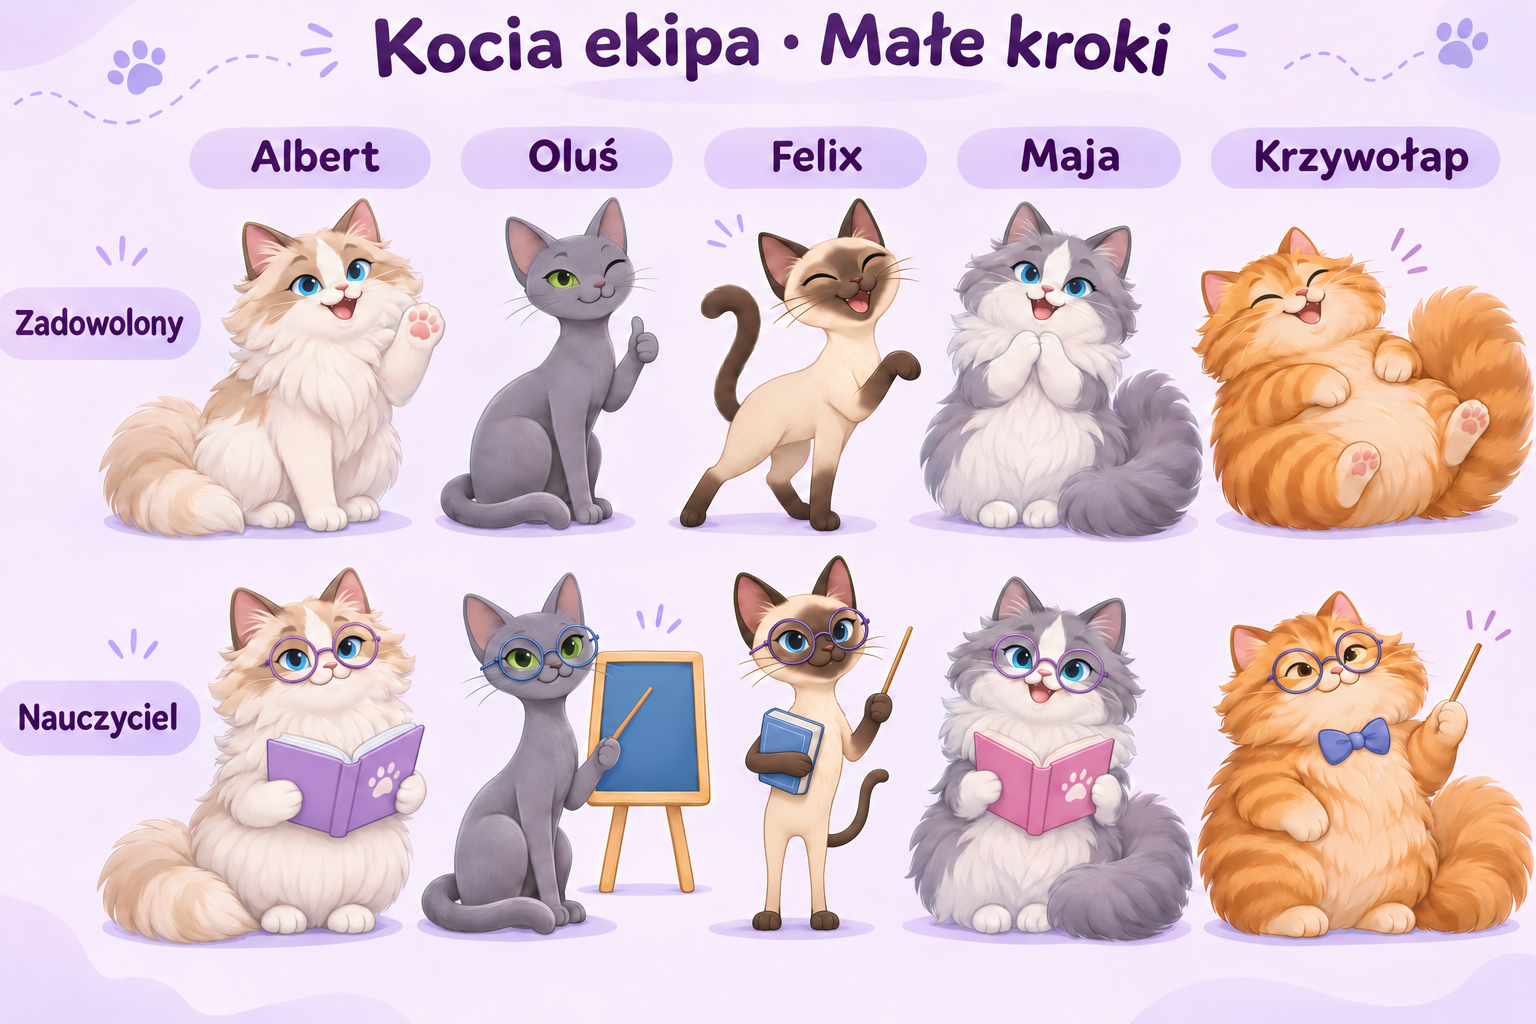
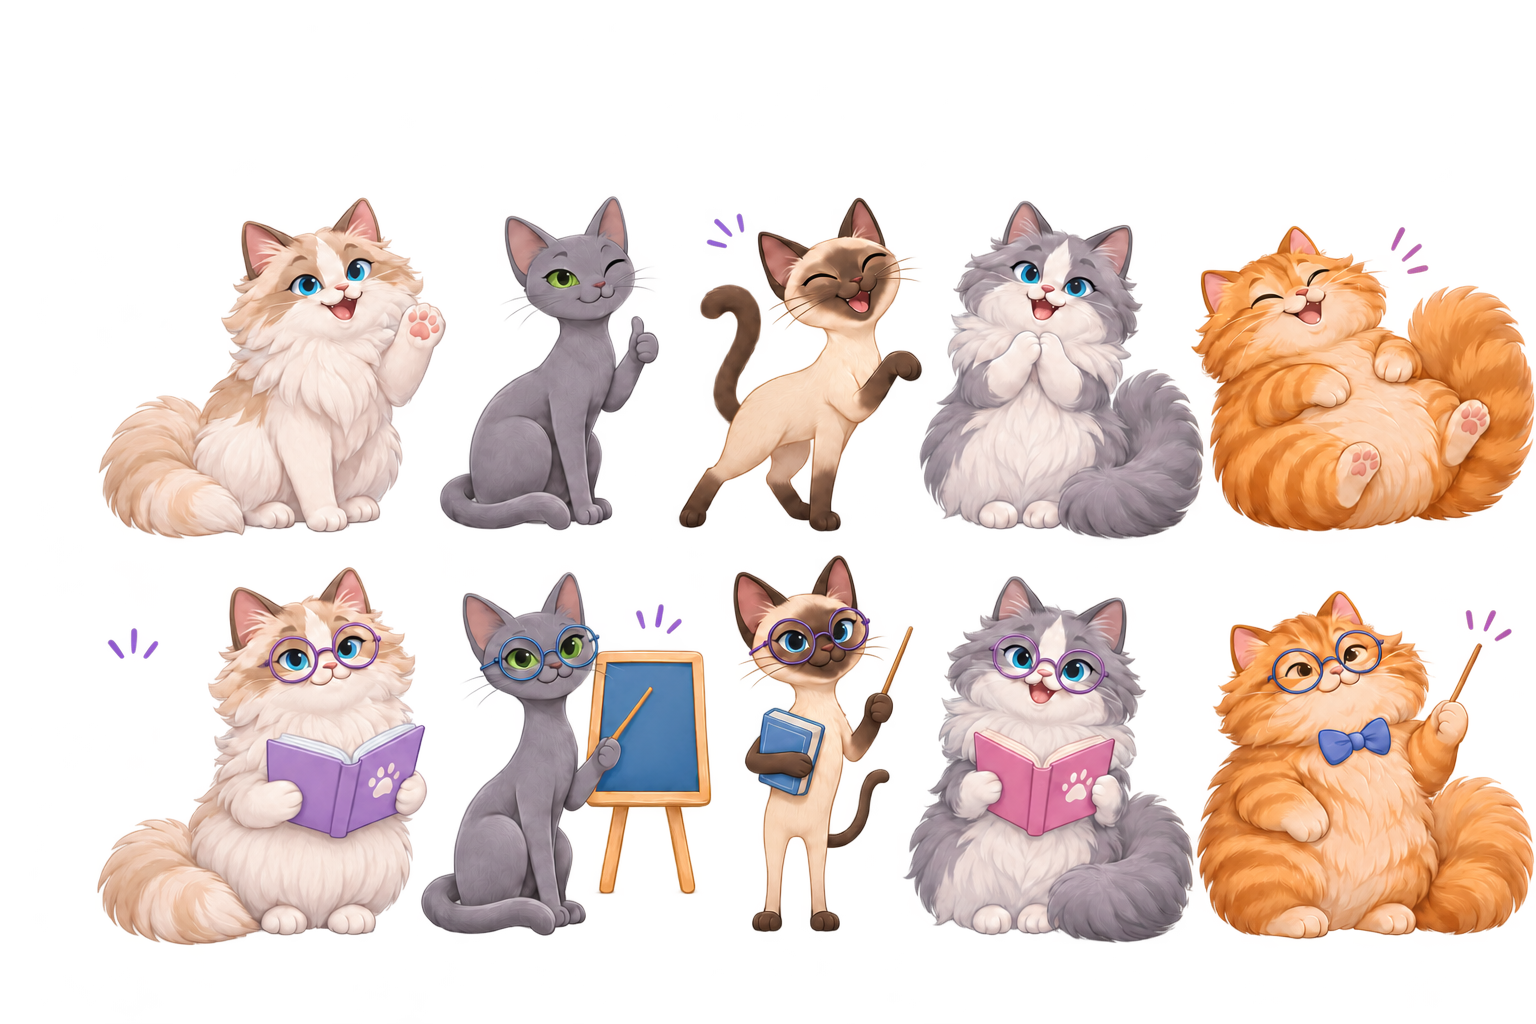
kotki poprawki

diff --git a/src/main.ts b/src/main.ts
@@ -128,7 +128,7 @@ function catView(reaction:CatReaction,large=false){
   const {cat,frame,mood}=reaction,sheet=catCatalog.sheets[frame.sheet];
   const labels={teacher:'cierpliwy nauczyciel',happy:'zadowolony kotek',celebrating:'świętujący kotek',funny:'zabawna scenka'};
   const clipId=`cat-clip-${cat.id}-${mood}`;
-  return `<figure class="cat-mascot ${large?'cat-mascot-large':''}" data-cat="${cat.id}" data-mood="${mood}"><svg class="cat-artwork" viewBox="${frame.x} ${frame.y} ${frame.width} ${frame.height}" role="img" aria-label="${e(cat.name)} — ${labels[mood]}" preserveAspectRatio="xMidYMid meet"><defs><clipPath id="${clipId}">${frame.clip?`<polygon points="${frame.clip.map(p=>p.join(',')).join(' ')}"/>`:`<rect x="${frame.x}" y="${frame.y}" width="${frame.width}" height="${frame.height}"/>`}</clipPath></defs><image href="${e(new URL(sheet.src,document.baseURI).href)}" width="${sheet.width}" height="${sheet.height}" clip-path="url(#${clipId})"/></svg><figcaption>${e(cat.name)}</figcaption></figure>`;
+  return `<figure class="cat-mascot ${large?'cat-mascot-large':''}" data-cat="${cat.id}" data-mood="${mood}"><svg class="cat-artwork" viewBox="${frame.x} ${frame.y} ${frame.width} ${frame.height}" role="img" aria-label="${e(cat.name)} — ${labels[mood]}" preserveAspectRatio="xMidYMid meet"><defs><clipPath id="${clipId}">${frame.clip?`<polygon points="${frame.clip.map(p=>p.join(',')).join(' ')}"/>`:`<rect x="${frame.x}" y="${frame.y}" width="${frame.width}" height="${frame.height}"/>`}</clipPath></defs><image href="${e(new URL(sheet.src,document.baseURI).href)}" width="${sheet.width}" height="${sheet.height}" clip-path="url(#${clipId})"/></svg>${large?`<figcaption>${e(cat.name)}</figcaption>`:''}</figure>`;
 }
 function study() {
   const s = progress.active;
@@ -355,7 +355,7 @@ async function init() {
         await sync.connect(savedAccount.uid,guestProgress);user=savedAccount;progress=structuredClone(sync.cache!.progress);
         if(navigator.onLine)void (async()=>{
           try{const account=await deadline((await sdk()).restoreUser());
-            if(account?.uid===savedAccount.uid){user={uid:account.uid,email:account.email};scheduleSync(0);}
+            if(account?.uid===savedAccount.uid){await rememberAccount(account);scheduleSync(0);}
             else {reauthNeeded=true;accountError='Zaloguj się ponownie, aby zsynchronizować zapisane wyniki konta.';sync.status='error';}
           }catch(error){accountError='Połączenie z kontem jest niedostępne. Możesz uczyć się z lokalnym zapisem konta.';sync.status='error';}
           if(ready && !busy && (screen==='account'||screen==='home'))render();else refreshSyncLabel();

diff --git a/tests/browser/firebase.spec.ts b/tests/browser/firebase.spec.ts
@@ -118,6 +118,16 @@ test('konto: imię, hasło, potwierdzana zmiana e-maila i osobny profil testowy'
   await expect(page.getByRole('heading',{name:'Twoje konto',exact:true})).toBeVisible();await expect(page.getByLabel('Twoje imię')).toHaveValue('Paulina');
   await page.getByLabel('Twoje imię').fill('Paulina Test');await page.getByRole('button',{name:'Zapisz imię',exact:true}).click();await expect(page.getByText('Imię zostało zapisane.',{exact:true})).toBeVisible();
   await page.getByRole('button',{name:'Moja nauka',exact:true}).click();await expect(page.getByRole('heading',{name:/^Cześć, Paulina Test/})).toBeVisible();
+  await page.reload();
+  await expect(page.locator('[data-sync-label]')).toHaveText('Zapis na koncie');
+  await expect.poll(()=>page.evaluate(()=>new Promise(resolve=>{
+    const request=indexedDB.open(`hania-language:${new URL('.',location.href).pathname}`,1);
+    request.onsuccess=()=>{
+      const db=request.result,tx=db.transaction('progress','readonly'),read=tx.objectStore('progress').get('firebase-user');
+      tx.oncomplete=()=>{db.close();resolve(read.result?.displayName);};
+    };
+  }))).toBe('Paulina Test');
+  await expect(page.getByRole('heading',{name:/^Cześć, Paulina Test/})).toBeVisible();
   await page.getByRole('button',{name:'Konto i synchronizacja',exact:true}).click();await page.locator('.account-settings summary').filter({hasText:'Zmień hasło'}).click();
   const fillPasswords=async(current:string,next:string,confirm=next)=>{await page.getByLabel('Obecne hasło',{exact:true}).fill(current);await page.getByLabel('Nowe hasło — co najmniej 8 znaków').fill(next);await page.getByLabel('Powtórz nowe hasło').fill(confirm);await page.getByRole('button',{name:'Zmień hasło',exact:true}).click();};
   await fillPasswords('wrongpass','second-password');await expect(page.locator('.account-error')).toContainText('Obecne hasło jest nieprawidłowe');

diff --git a/public/cats/README.md b/public/cats/README.md
@@ -2,7 +2,7 @@
 
 Zaakceptowane postacie: Albert (biało-biszkoptowy ragdoll), Oluś (rosyjski niebieski), Felix (syjamski), Maja (biało-szary ragdoll), Krzywołap (puszysty rudy kot).
 
-`catalog.json` opisuje 25 wariantów: po jednym nauczycielskim, zadowolonym i świętującym oraz po dwie zabawne scenki każdego kotka. Trzy plansze PNG są oryginalnymi zaakceptowanymi ilustracjami. Nie przerysowujemy ich przy wyświetlaniu.
+`catalog.json` opisuje 25 wariantów: po jednym nauczycielskim, zadowolonym i świętującym oraz po dwie zabawne scenki każdego kotka. Trzy plansze PNG mają przezroczyste tło, aby postacie pasowały do kart odpowiedzi i podsumowania. Zachowują układ zaakceptowanych ilustracji. Nie przerysowujemy ich przy wyświetlaniu.
 
 - `happy-teachers.png` — zatwierdzona plansza po poprawieniu łapek i ogona Feliksa oraz nazwaniu Krzywołapa.
 - `play-celebrate.png` — zabawne scenki z motylkiem, kulką, pudełkiem, piórkiem i ogonem oraz świętowanie.
@@ -12,4 +12,6 @@ Każdy kadr wskazuje `sheet`, `x`, `y`, `width`, `height`. Opcjonalne `clip` jes
 
 Po błędnej odpowiedzi pojawia się `teacher`. Po poprawnej losowane jest `happy` lub `celebrating`. Na końcu sesji pojawia się jeden z wariantów `funny`, również gdy w lekcji były błędy. Losowa kolejność kotków zależy od identyfikatora sesji; pięć kolejnych pytań ma różne postacie. Powrót do tej samej odpowiedzi odtwarza tę samą ilustrację. Nie zmieniamy formatu postępów ani kopii.
 
-Katalog oraz plansze są objęte pobieraniem PWA do nauki offline. Brak dekoracji nie blokuje ćwiczeń. Pierwsze pobranie jest większe o około 5,8 MB — plansze są współdzielone przez wszystkie warianty.
+Katalog oraz plansze są objęte pobieraniem PWA do nauki offline. Brak dekoracji nie blokuje ćwiczeń. Pierwsze pobranie jest większe o około 5,1 MB — plansze są współdzielone przez wszystkie warianty.
+
+Tło usunięto wbudowanym narzędziem generowania obrazów. Polecenie: usuń pastelowe tło, cienie podłogi, podpisy i dekoracyjne obramowanie; zachowaj koty, rekwizyty, pozy, pozycje oraz wymiary plansz; zapisz PNG z przezroczystością.
